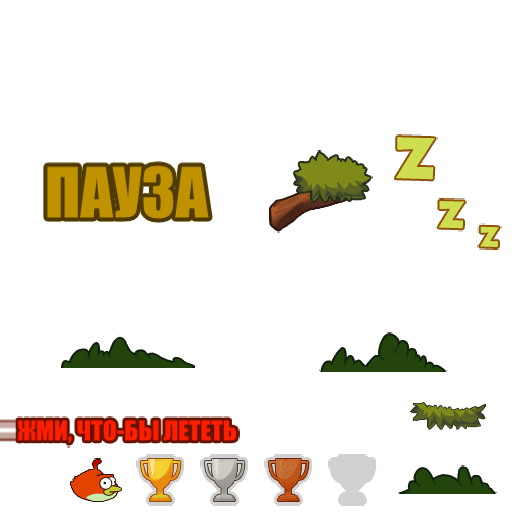
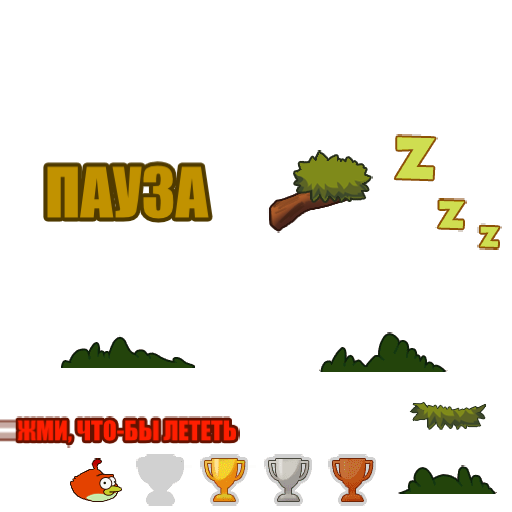
Add files via upload

Changed region(s): [[0.25, 0.875, 0.75, 1.0]]

diff --git a/clumsy/scripts/c3runtime.js b/clumsy/scripts/c3runtime.js
@@ -3777,7 +3777,7 @@ true,result:this.OTHER})}if(C3.IsFiniteNumber(property))property=C3.Behaviors.Tw
 		C3.Plugins.Sprite.Acts.AddChild,
 		C3.Behaviors.Anchor.Acts.SetEnabled,
 		C3.Plugins.Sprite.Acts.SetX,
-		C3.Plugins.System.Exps.viewportright,
+		C3.Plugins.System.Exps.originalviewportwidth,
 		C3.Plugins.Text.Acts.SetX,
 		C3.Plugins.Sprite.Cnds.IsAnimPlaying,
 		C3.Plugins.System.Cnds.CompareBoolVar,
@@ -3798,6 +3798,7 @@ true,result:this.OTHER})}if(C3.IsFiniteNumber(property))property=C3.Behaviors.Tw
 		C3.Plugins.Sprite.Acts.RotateTowardAngle,
 		C3.Plugins.System.Cnds.Every,
 		C3.Plugins.System.Acts.CreateObject,
+		C3.Plugins.System.Exps.viewportright,
 		C3.Plugins.System.Exps.random,
 		C3.Plugins.Sprite.Acts.SetAnimFrame,
 		C3.Plugins.System.Exps.choose,
@@ -4008,7 +4009,7 @@ true,result:this.OTHER})}if(C3.IsFiniteNumber(property))property=C3.Behaviors.Tw
 		() => "Start",
 		p => {
 			const f0 = p._GetNode(0).GetBoundMethod();
-			return () => (f0("GUI") / 2);
+			return () => (f0() / 2);
 		},
 		() => "Restart",
 		() => 2,
@@ -4081,6 +4082,8 @@ true,result:this.OTHER})}if(C3.IsFiniteNumber(property))property=C3.Behaviors.Tw
 			const v1 = p._GetNode(1).GetVar();
 			return () => and(((("Лучший: " + v0.GetValue()) + "\n") + "Текущий: "), v1.GetValue());
 		},
+		() => "Pause",
+		() => -555,
 		() => "Animation 2",
 		p => {
 			const f0 = p._GetNode(0).GetBoundMethod();
@@ -4114,7 +4117,6 @@ true,result:this.OTHER})}if(C3.IsFiniteNumber(property))property=C3.Behaviors.Tw
 		},
 		() => "In",
 		() => 50,
-		() => "Pause",
 		() => "web",
 		() => "mobile-web",
 		() => "android",
